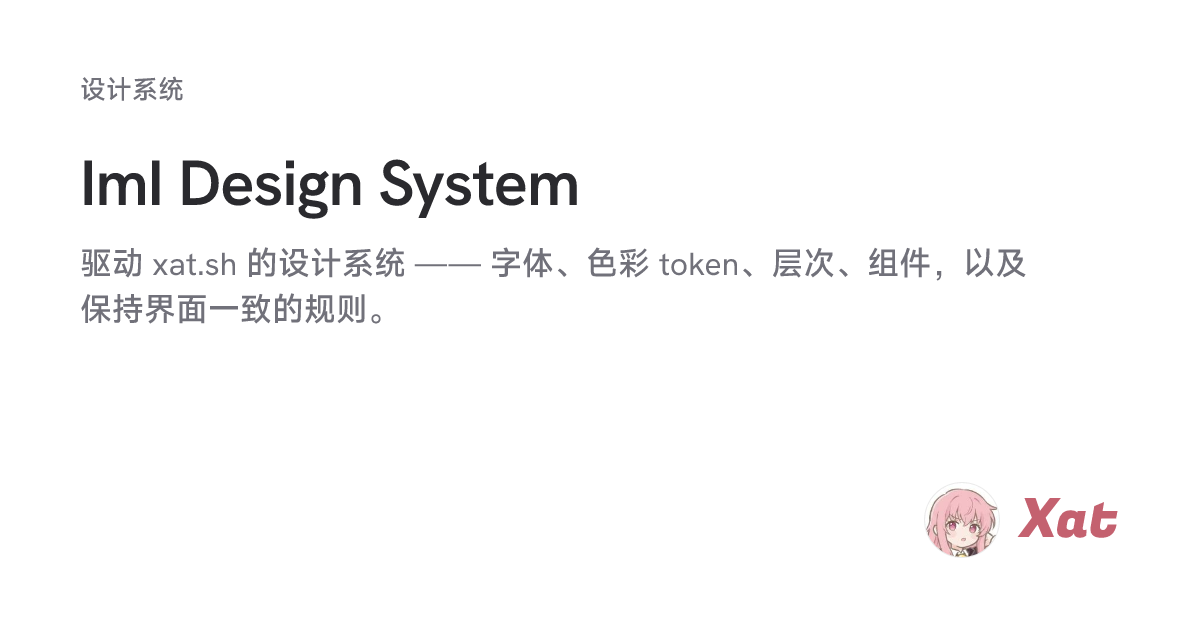
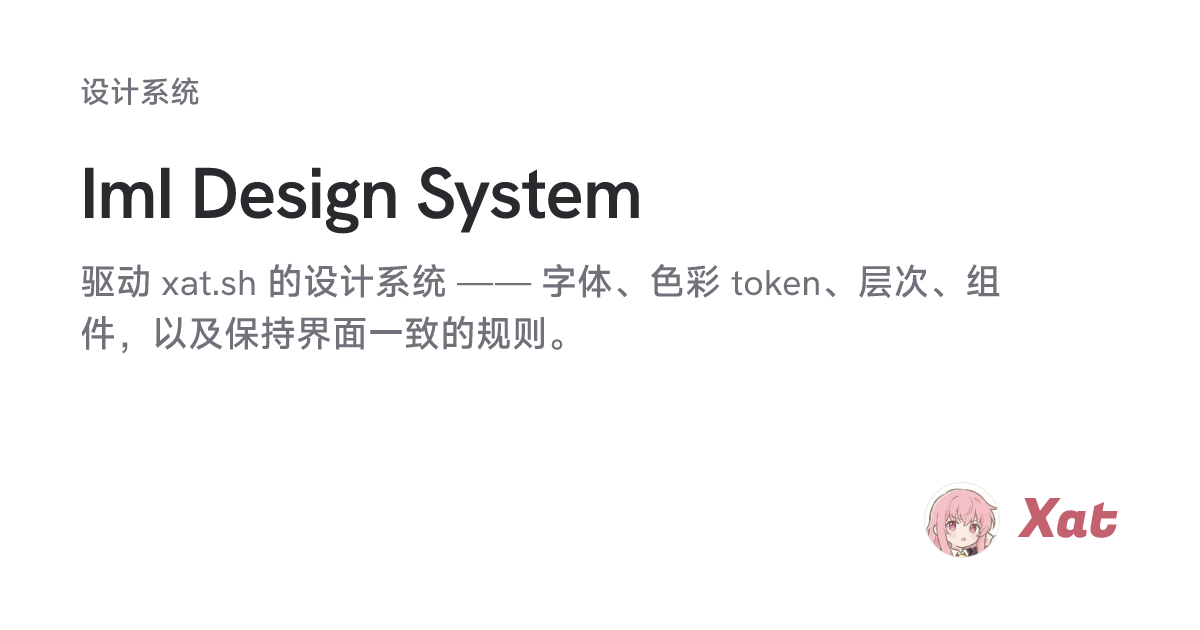
Add SEO descriptions and social meta tags

Changed region(s): [[0.0617, 0.2413, 0.7708, 0.573], [0.0617, 0.1206, 0.185, 0.181], [0.8017, 0.3921, 0.8633, 0.4825]]

diff --git a/src/lib/og/constants.ts b/src/lib/og/constants.ts
@@ -33,11 +33,11 @@ export const OG_BODY_FONT_STACK = `${OG_FONT_FAMILY.display}, ${OG_FONT_FAMILY.c
 /** Shared OG typography scale (Satori px). */
 export const OG_TYPE = {
 	avatar: 76,
-	body: 32,
-	eyebrow: 32,
-	headline: 64,
-	meta: 26,
-	pill: 24,
+	body: 36,
+	eyebrow: 36,
+	headline: 72,
+	meta: 30,
+	pill: 28,
 	wordmark: 54,
 } as const
 

diff --git a/src/lib/og/template.ts b/src/lib/og/template.ts
@@ -153,7 +153,7 @@ export function siteOgTemplate(input: SiteOgInput) {
 										letterSpacing: '-0.02em',
 										lineHeight: 1.2,
 										marginTop: 24,
-										maxWidth: 920,
+										maxWidth: 1040,
 									},
 								},
 								type: 'div',

diff --git a/src/content.config.ts b/src/content.config.ts
@@ -7,6 +7,7 @@ const posts = defineCollection({
 	schema: z.object({
 		category: z.string(),
 		date: z.coerce.date(),
+		seoDescription: z.string().optional(),
 		summary: z.string(),
 		tags: z.array(z.string()),
 		title: z.string(),
